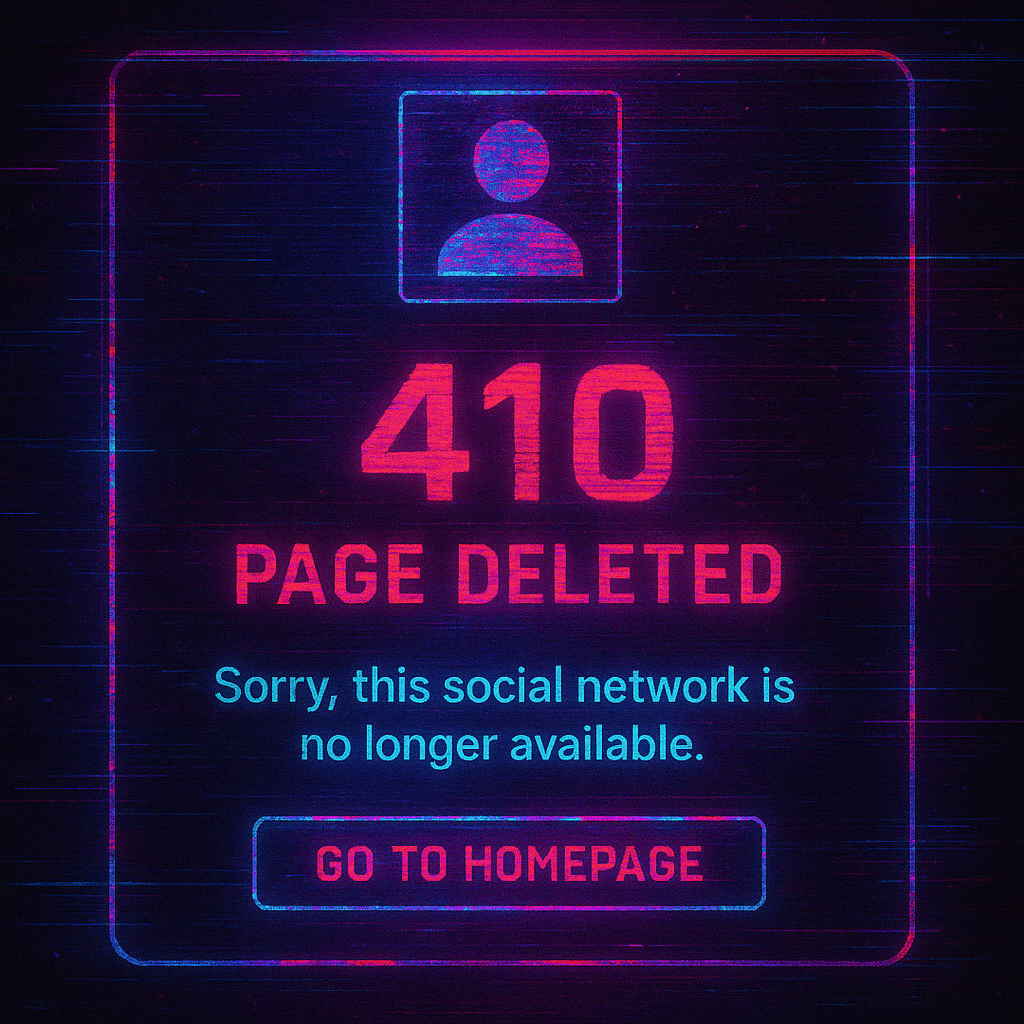
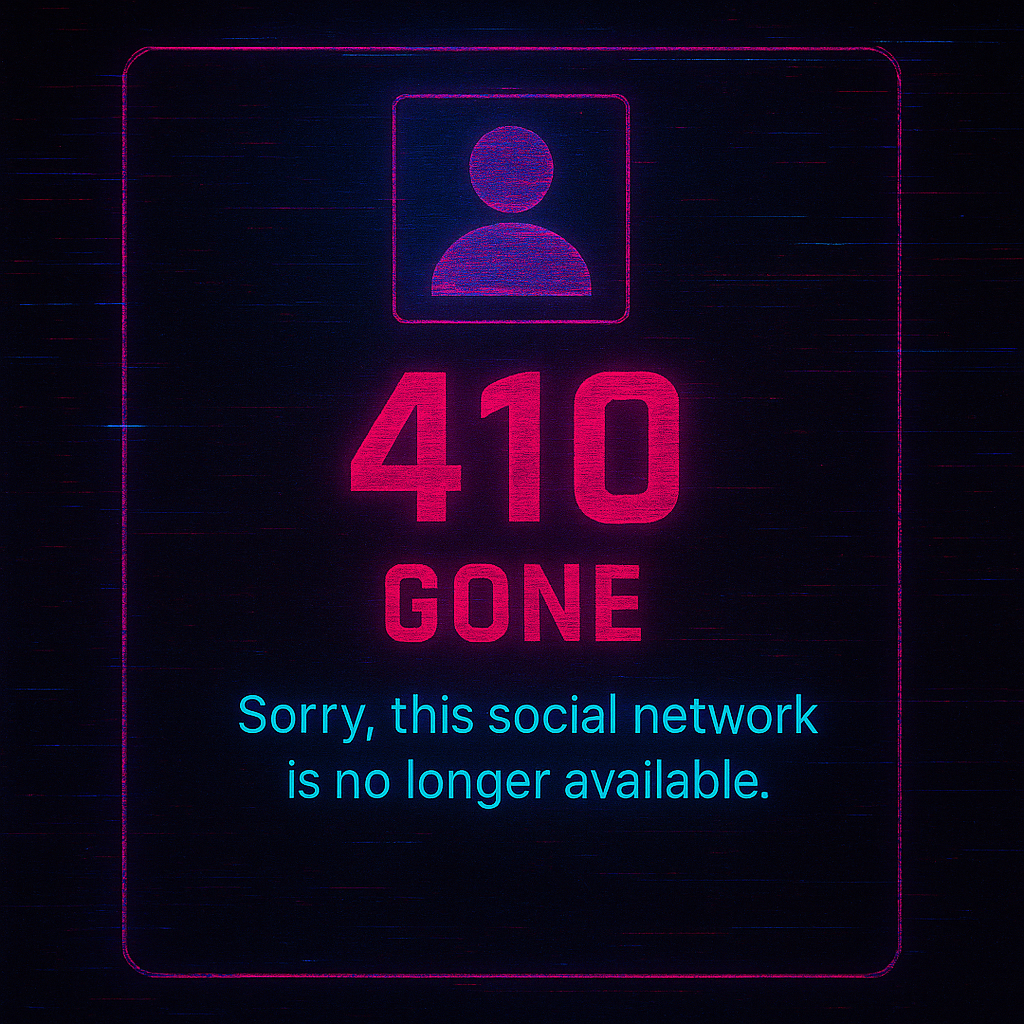
static is da way

diff --git a/src/public/index.html b/src/public/index.html
@@ -4,46 +4,216 @@
 <head>
   <meta charset="UTF-8" />
   <meta name="viewport" content="width=device-width, initial-scale=1.0" />
-  <title>410 - Mastodon Not Available</title>
+  <title>410 - GONE</title>
   <style>
     body {
       margin: 0;
       background-color: #0a001f;
       color: #ff2cdf;
-      font-family: 'Courier New', monospace;
+      font-family: 'Monospace', monospace;
       display: flex;
       flex-direction: column;
       align-items: center;
       justify-content: center;
       min-height: 100vh;
       text-align: center;
+      overflow: hidden;
     }
 
-    img {
+    .glitch-image {
+      position: relative;
+      display: inline-block;
       max-width: 80%;
-      height: auto;
       margin-bottom: 2rem;
       filter: drop-shadow(0 0 10px #ff2cdf);
+      animation: flicker 10s infinite alternate;
+    }
+
+    .glitch-image img {
+      display: block;
+      width: 100%;
+      height: auto;
+    }
+
+    .glitch-image::before,
+    .glitch-image::after {
+      content: "";
+      position: absolute;
+      top: 0;
+      left: 0;
+      width: 100%;
+      height: 100%;
+      background-image: url("410.png");
+      background-size: cover;
+      background-repeat: no-repeat;
+      background-position: center;
+      z-index: -1;
+      opacity: 0.7;
+      mix-blend-mode: screen;
+    }
+
+    .glitch-image::before {
+      filter: drop-shadow(0 0 14px #00f0ff);
+      animation: glitchRGB 1s infinite ease-in-out alternate-reverse;
+    }
+
+    .glitch-image::after {
+      filter: drop-shadow(0 0 14px #ff0044);
+      animation: glitchRGBAlt 0.1s infinite ease-in-out alternate;
+    }
+
+    h1,
+    p {
+      position: relative;
+      display: inline-block;
     }
 
     h1 {
       font-size: 3rem;
       margin-bottom: 1rem;
-      text-shadow: 0 0 8px #ff2cdf;
+      color: #ff2cdf;
+      animation: flicker 2s infinite alternate;
     }
 
     p {
       font-size: 1.5rem;
       color: #00f0ff;
-      text-shadow: 0 0 6px #00f0ff;
+      animation: glitchTrail 2.5s infinite linear alternate;
+    }
+
+    /* Flicker effect */
+    @keyframes flicker {
+
+      0%,
+      19%,
+      21%,
+      23%,
+      25%,
+      54%,
+      56%,
+      100% {
+        opacity: 1;
+      }
+
+      20%,
+      24%,
+      55% {
+        opacity: 0.3;
+      }
+    }
+
+    /* Glitch trail for text */
+    h1::before,
+    h1::after,
+    p::before,
+    p::after {
+      content: attr(data-text);
+      position: absolute;
+      top: 0;
+      left: 0;
+      width: 100%;
+      overflow: hidden;
+      z-index: -1;
+    }
+
+    h1::before,
+    p::before {
+      color: #00f0ff;
+      transform: translate(2px, -1px);
+      mix-blend-mode: screen;
+      animation: glitchRGB 1.8s infinite ease-in-out alternate-reverse;
+    }
+
+    h1::after,
+    p::after {
+      color: #ff0044;
+      transform: translate(-2px, 1px);
+      mix-blend-mode: screen;
+      animation: glitchRGBAlt 2.1s infinite ease-in-out alternate;
+    }
+
+    @keyframes glitchRGB {
+      0% {
+        clip-path: inset(0 0 0 0);
+        transform: translate(10px, -10px);
+      }
+
+      20% {
+        clip-path: inset(20% 0 60% 0);
+        transform: translate(-15px, 20px);
+      }
+
+      40% {
+        clip-path: inset(40% 0 40% 0);
+        transform: translate(25px, -20px);
+      }
+
+      60% {
+        clip-path: inset(60% 0 20% 0);
+        transform: translate(-5px, 10px);
+      }
+
+      80% {
+        clip-path: inset(10% 0 75% 0);
+        transform: translate(1px, -1px);
+      }
+
+      100% {
+        clip-path: inset(0 0 0 0);
+        transform: translate(0, 0);
+      }
+    }
+
+    @keyframes glitchRGBAlt {
+      0% {
+        clip-path: inset(0 0 0 0);
+        transform: translate(-1px, 2px);
+      }
+
+      25% {
+        clip-path: inset(5% 0 90% 0);
+        transform: translate(3px, -1px);
+      }
+
+      50% {
+        clip-path: inset(45% 0 45% 0);
+        transform: translate(-2px, 2px);
+      }
+
+      75% {
+        clip-path: inset(20% 0 60% 0);
+        transform: translate(2px, 1px);
+      }
+
+      100% {
+        clip-path: inset(0 0 0 0);
+        transform: translate(0, 0);
+      }
+    }
+
+    /* Optional: scanline overlay */
+    body::after {
+      content: "";
+      position: absolute;
+      top: 0;
+      left: 0;
+      width: 100%;
+      height: 100%;
+      pointer-events: none;
+      background-image: linear-gradient(rgba(255, 255, 255, 0.02) 1px, transparent 1px);
+      background-size: 100% 3px;
+      z-index: 1;
+      mix-blend-mode: overlay;
     }
   </style>
 </head>
 
 <body>
-  <img src="/static/410.png" alt="410 GONE" />
-  <h1>410</h1>
-  <p>This Mastodon is not available.</p>
+  <div class="glitch-image">
+    <img src="410.png" alt="410 GONE" />
+  </div>
+  <h1 data-text="410">410</h1>
+  <p data-text="This Mastodon is GONE.">This Mastodon is GONE.</p>
 </body>
 
 </html>
